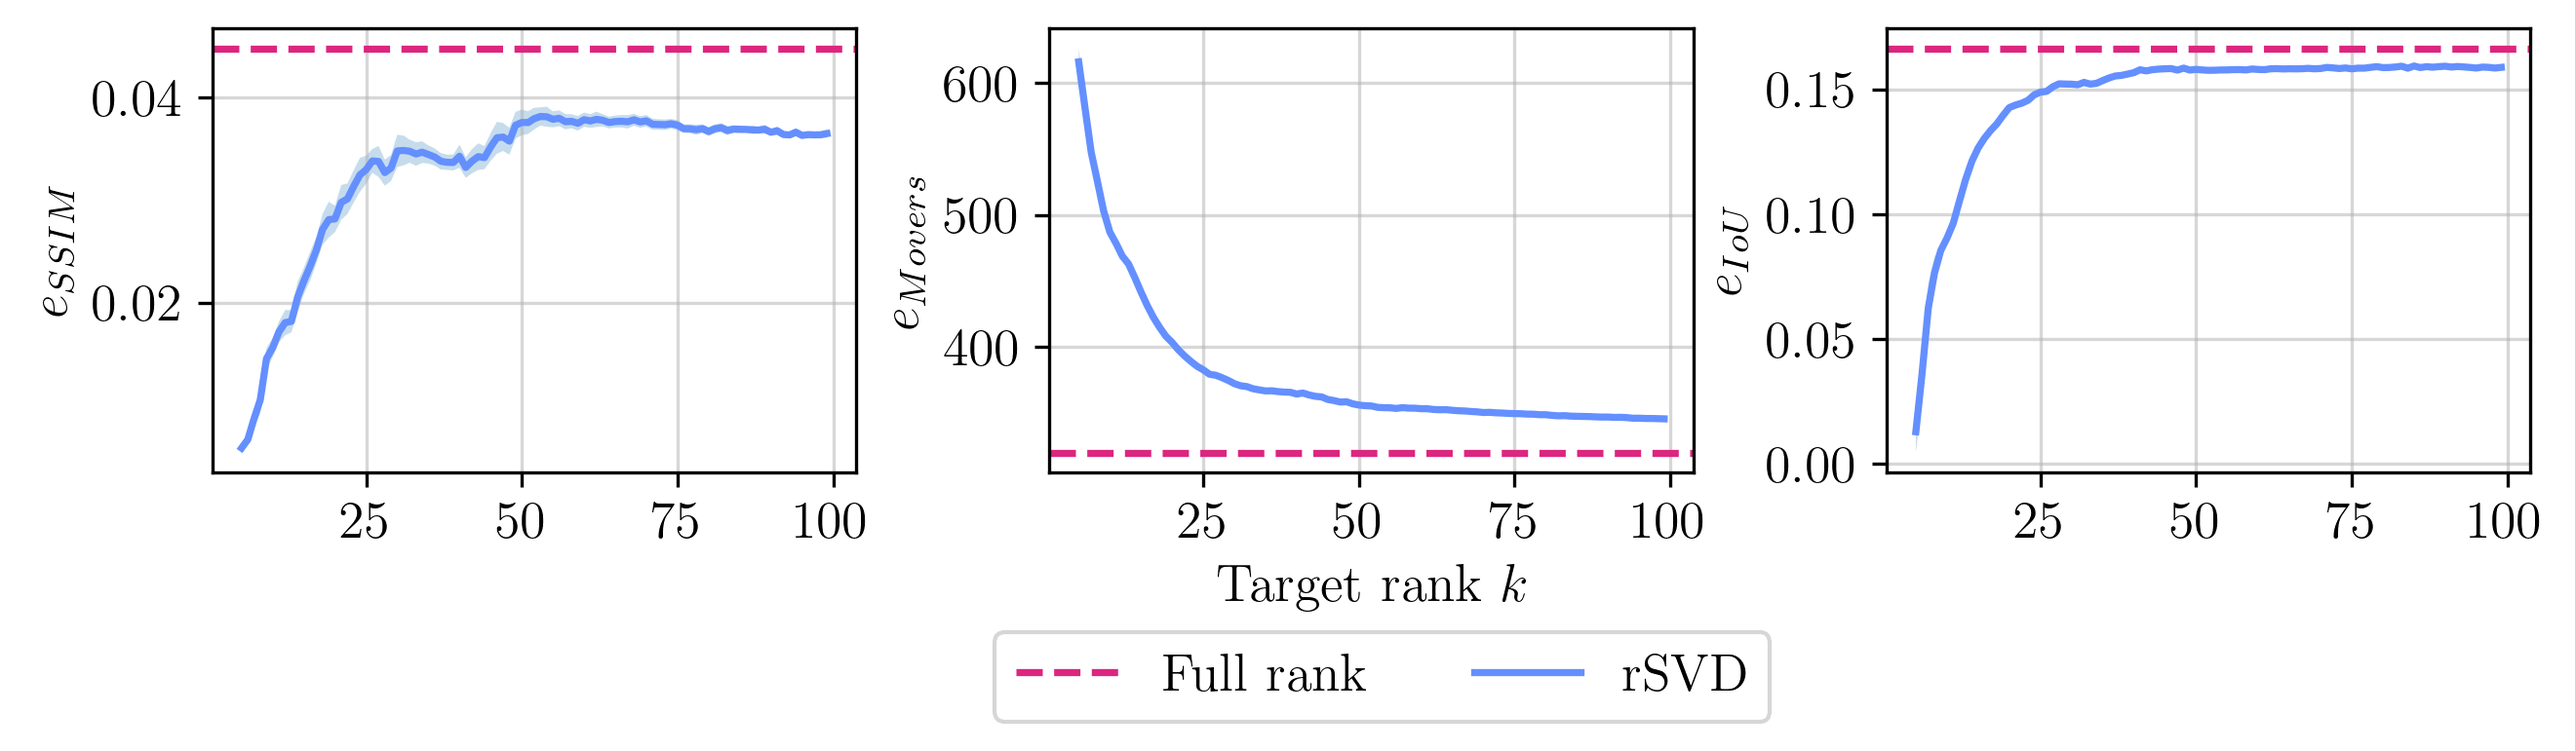
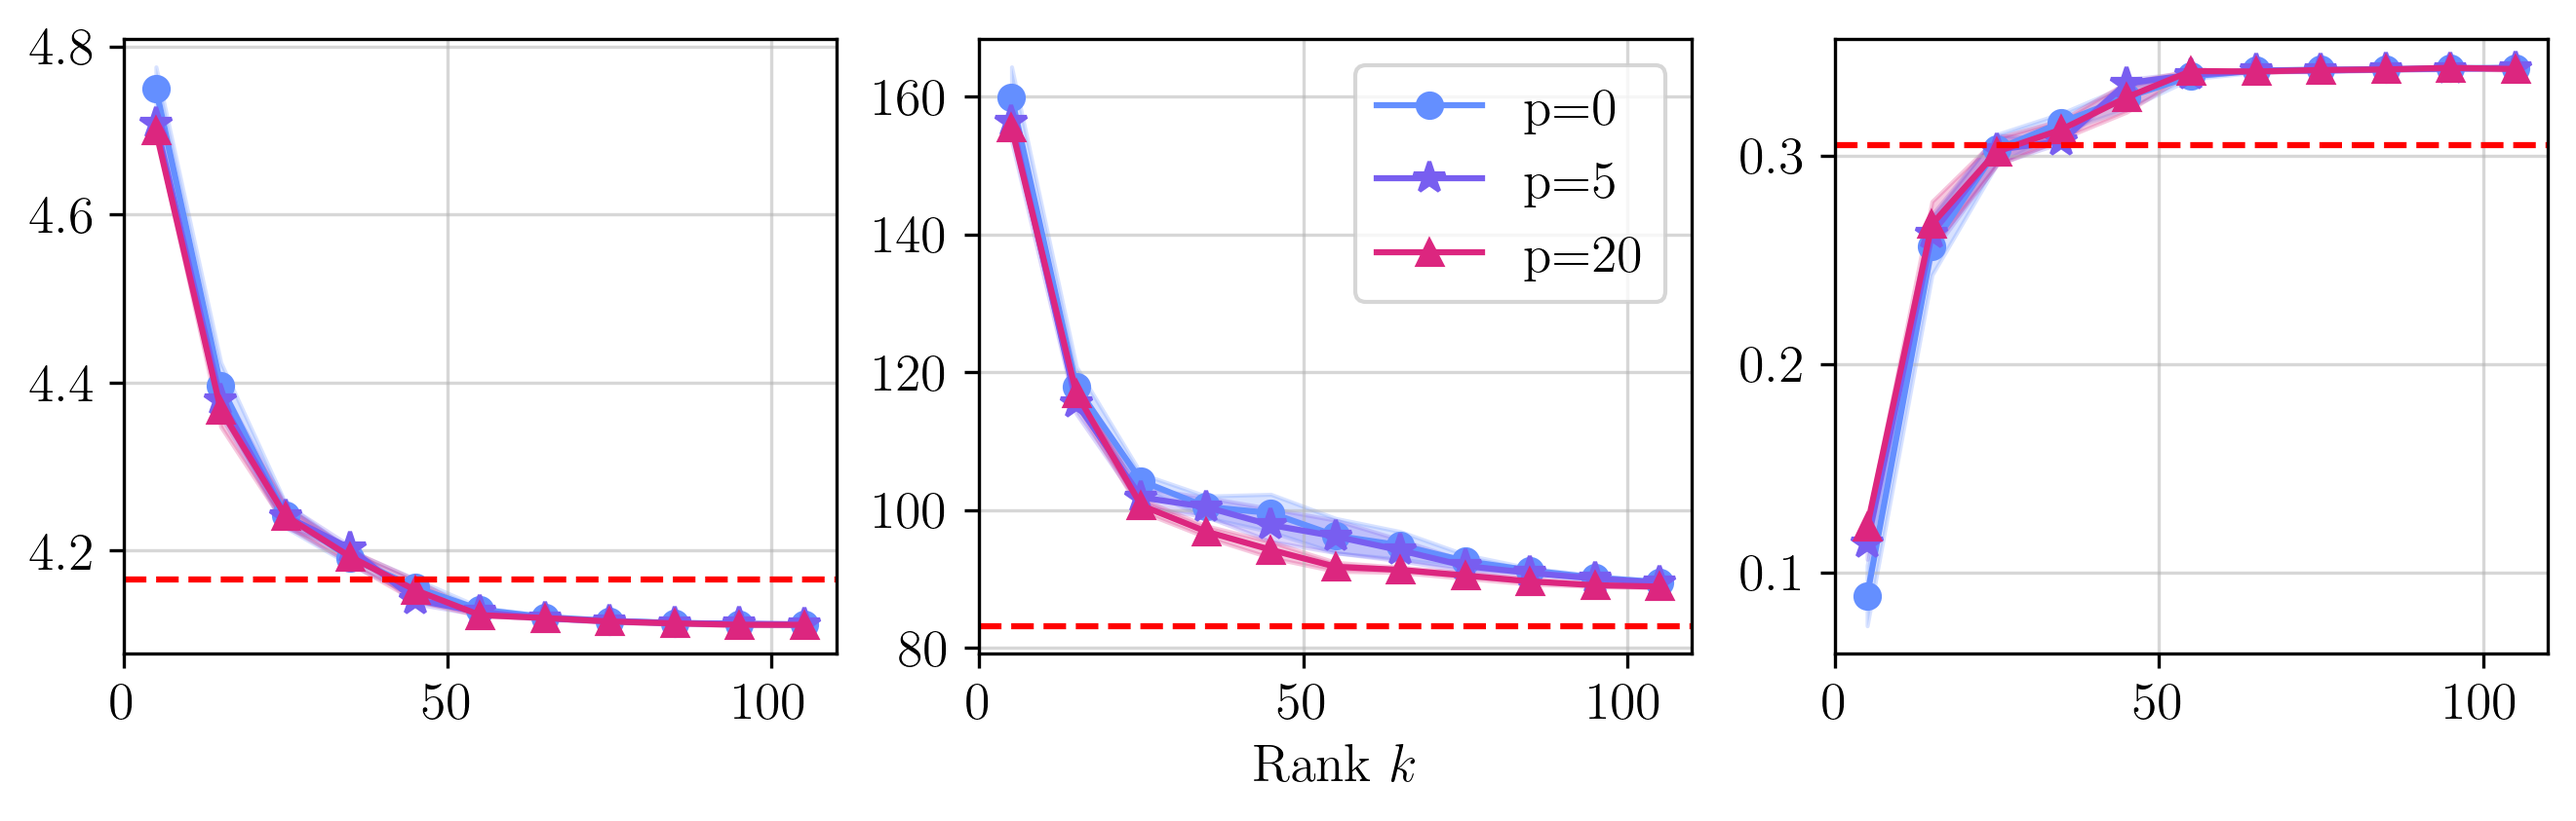
Multiple changes to multiple sections

diff --git a/thesis/sections/mathematical_background.tex b/thesis/sections/mathematical_background.tex
@@ -10,7 +10,7 @@ Let $\Omega \subset \mathbb R^2$ be a bounded domain with boundary $\partial \Om
 \nomenclature[B]{$c,\, c(x)$}{Reaction coefficient}
 
 Equation~\eqref{eq:pde} is a linear diffusion-reaction problem with Neumann boundary conditions, and defines a mapping
-\begin{equation}
+\begin{equation}\label{eq:S_cont}
     \mathcal S: L^2(\Omega) \rightarrow H^1(\Omega), \quad \mathcal{S} f = u.
 \end{equation}
 Here, $L^2(\Omega)$ is the space of square integrable functions and $H^1(\Omega) \subset L^2(\Omega)$ the first-order Sobolev space, see Appendix~\ref{appendix:function_spaces}
@@ -43,7 +43,7 @@ In order to solve such a problem computationally, the problem must be discretize
 \input{figures/triangulation.tex}
 Consider the PDE in Eq.~\eqref{eq:pde}. Multiplying the equation by a test function $v \in H^1(\Omega)$, integrating over $\Omega$, and applying Green's identity yields the weak formulation: find $u \in H^1(\Omega)$ such that
 \begin{equation}\label{eq:variational_formulation}
-    \int_{\Omega} (\sigma \nabla u \cdot \nabla v + k u v) \, dx = \int_{\Omega} f v \space \, dx,
+    \int_{\Omega} (\sigma \nabla u \cdot \nabla v + c u v) \, dx = \int_{\Omega} f v \space \, dx,
     \text{ for all } v \in H^1(\Omega).
 \end{equation}
 For details on the derivation, see Section~4 in Larson and Bengzon \cite{larsonFiniteElementMethod2013}.
@@ -66,7 +66,7 @@ The basis functions $\phi_i$ are piecewise linear hat functions associated with 
 The finite element approximation of \eqref{eq:variational_formulation} then reads: 
 find $u_h \in V_h$ such that
  \begin{equation}\label{eq:fem_formulation}
-    \int_{\Omega} (\sigma \nabla u_h \cdot \nabla v + k u_h v) \, dx = \int_{\Omega} f v \space \, dx,
+    \int_{\Omega} (\sigma \nabla u_h \cdot \nabla v + c u_h v) \, dx = \int_{\Omega} f v \space \, dx,
     \text{ for all } v \in V_h.
 \end{equation}
 
@@ -118,7 +118,7 @@ Let $V_h$ be the finite element space introduced in Eq.~\eqref{eq:fem_space} and
 where $M$ is the mass matrix. 
 
 This induces a discrete inner product on $\mathbb{R}^N$, with associated norm, defined by
-\begin{equation}
+\begin{equation}\label{eq:fem_norm}
     \langle \v x, \v y \rangle_M = \v x^T M \v y,
     \quad
     \| \v x \|_M = \sqrt{\v x^T M \v x}.
@@ -127,7 +127,7 @@ This induces a discrete inner product on $\mathbb{R}^N$, with associated norm, d
 Similarly, let $\v u, \v v \in \mathbb{R}^{N_b}$ 
 denote coefficient vectors corresponding to the traces 
 $u_h|_{\partial\Omega}$ and $v_h|_{\partial\Omega}$. The $L^2(\partial\Omega)$ inner product induces a discrete inner product and norm on $\mathbb{R}^{N_b}$, given by
-\begin{equation}
+\begin{equation}\label{eq:fem_norm_ds}
     \langle \mathbf{u}, \mathbf{v} \rangle_{M_{\partial}}
     = \mathbf{u}^T M_{\partial} \mathbf{v},
     \quad
@@ -139,6 +139,36 @@ where $M_\partial$ denotes the boundary mass matrix, see Appendix~\ref{appendix
 \nomenclature[E]{$M_\partial$}{Boundary mass matrix}%
 
 %In practice, this system is often **ill-posed** due to the large null space of $K$ and the accumulation of numerical errors in $A^{-1}$. As a result, naive solutions of Eq.~\eqref{eq:inverse_problem} are highly sensitive to noise in $\v y$, motivating the need for regularization techniques. In the following section, we discuss classical Tikhonov regularization and introduce the weighted approach that will be explored in this thesis.
+
+
+\subsubsection{The adjoint operator}
+Let $\mathcal{K}: L^2(\Omega) \to L^2(\partial\Omega)$ be the bounded linear operator defined in Equation~\eqref{eq:K}. The adjoint operator $\mathcal{K}^*: L^2(\partial\Omega) \to L^2(\Omega)$ is the bounded linear operator satisfying
+\begin{equation}\label{eq:K_star_cont}
+    \langle \mathcal K f,\, g \rangle_{L^2(\partial\Omega)} =
+    \langle f,\, \mathcal K^* g \rangle_{L^2(\Omega)},
+\end{equation}
+for all $f \in L^2(\Omega)$ and all $g \in L^2(\partial\Omega)$. Such an operator always exists for a bounded linear operator $\mathcal K$ mapping between two Hilbert spaces, see Section~3.9 in Kreyszig for a proof \cite{kreyszigIntroductoryFunctionalAnalysis1989}.
+
+Using the definition in Equation~\eqref{eq:K_star_cont}, we get the weak formulation of $K^*$ (the adjoint problem): find $w \in H^1(\Omega)$ such that
+\begin{equation}
+    \int_\Omega (\sigma^T \nabla w \cdot \nabla v + c w v) \, dx =
+    \int_{\partial\Omega} g v \, ds,
+    \text{ for all } v \in H^1(\Omega).
+\end{equation}
+The solution $w$ then satisfies $\mathcal K^* g = w$. For details, see 
+
+In the discrete case, under the inner products and norms defined in Equation~\eqref{eq:fem_norm} and \eqref{eq:fem_norm_ds}, the adjoint operator $K^* \in \mathbb{R}^{N \times N_b}$ of $K \in \mathbb{R}^{N_b \times N}$ satisfies
+\begin{equation}
+    (K \v x)^T M_\partial \v y = \v x^T M K^* \v y,
+\end{equation}
+for all $\v x \in \mathbb R^N$ and all $\v y \in \mathbb R^{N_b}$. 
+
+Inserting the explicit representation of $K$ given in Equation~\eqref{eq:discrete_K} yields the matrix representation of $K^*$,
+\begin{equation}
+    K^* = A^{-T} T^T M_\partial,
+\end{equation}
+where $A$ is the stiffness matrix, $T$ the discrete trace operator, and $M_\partial$ the boundary mass matrix.
+
 
 \subsection{Tikhonov regularization}
 

diff --git a/thesis/sections/appendix.tex b/thesis/sections/appendix.tex
@@ -45,7 +45,7 @@ Let $V_h \subset H^1(\Omega)$ be the finite element space defined in Eq.~\eqref{
 \begin{equation}
     A_{ij} = \int_\Omega 
     \left( \sigma \nabla \phi_j \cdot \nabla \phi_i 
-    + k \phi_j \phi_i \right) dx,
+    + c \phi_j \phi_i \right) dx,
     \quad
     M_{ij} = \int_\Omega \phi_j \phi_i \, dx.
 \end{equation}
@@ -73,20 +73,7 @@ for all $y \in \mathbb{R}^N$.
 \subsection{Performance metrics}
 Let $x \in \mathbb{R}^N$ denote the true source (it's coefficient vector) and $\hat x \in \mathbb{R}^N$ it's corresponding reconstruction.
 
-To evaluate reconstruction quality, we consider three performance metrics: centroid error, Earth mover’s distance (EMD), and intersection over union (IoU). These metrics emphasize the localization and spatial shape of the reconstructed source, rather than just the amplitude.
-
-
-\subsubsection{Centroid error}
-The centroid of $x$ represents it's center of mass/values. It is defined by
-\begin{equation}
-    c(x) = \frac{\sum_{i=1}^N p_i |x_i|}{\sum_{i=1}^N|x_i|},
-\end{equation}
-where $p_i$ denotes the spatial coordinate of $x_i$ (the location of the $x_i$ in its image/matrix representation). For more, see Section~16.10 in Protter and Charles \cite{protterCollegeCalculusAnalytic1970}.
-
-The centroid error is computed as
-\begin{equation}
-    e_{\text{centroid}} = \| c(x) - c(\hat x) \|.
-\end{equation}
+To evaluate reconstruction quality, we consider three performance metrics: Euclidean error, Earth mover’s distance (EMD), and the integrated (area under curve) intersection over union (AUC-IoU). These metrics emphasize the localization and spatial shape of the reconstructed source, rather than just the amplitude.
 
 
 \subsubsection{Earth mover’s distance}
@@ -97,23 +84,61 @@ The earth mover's distance measures the dissimilarity between two distributions,
 \end{equation}
 The EDM between them is
 \begin{equation}
-    e_{\text{EDM}} =
+    \operatorname{EDM} =
     \inf_{\gamma_{ij} \in \Pi}
     \gamma_{ij} \sum_{ij}^N d(p_i, p_j)
 \end{equation}
 where $\Pi$ is the set of all joint distributions with marginals $x_d$ and $\hat x_d$ \cite{rubnerMetricDistributionsApplications1998}.
 
 
-\subsubsection{Intersection over Union}
+\subsubsection{AUC-IoU}
 The IoU, known as the Jaccard index in statistics, measures the similarity between two sets. It is defined as the size of intersection divided by the size of the union \cite{raschkaPythonMachineLearning}.
 
-Let the sets $A$ and $B$ denote the binary masks of $x$ and $\hat x$, respectively (e.g. obtained via segmentation). The IoU is then given by
+We define the binary mask of $x$ at threshold $\tau \in (0, 1)$ as the set
 \begin{equation}
-    e_{IoU} = \frac{|A \cap B|}{|A \cup B|}.
+    S_{\tau}(x) = \{ i : x_i \ge \tau \operatorname{max}(x) \}.
+\end{equation}
+Then, the IoU of $x$ and $\hat x$ at threshold $\tau$ is then the IoU of their binary masks,
+\begin{equation}
+    \operatorname{IoU}(\tau) =
+    \frac{|S_\tau(x) \cap S_\tau(\hat x)|}{|S_\tau(x) \cup S_\tau(\hat x)|}.
 \end{equation}
 Here, $| \cdot |$ denotes the number of elements of a set (its cardinality).
 
+The AUC-IoU is then the integration of the $\operatorname{IoU}(\tau)$ curve,
+\begin{equation}
+    \operatorname{AUC-IoU} = \int_{0}^{1} \operatorname{IoU}(\tau) \, d\tau.
+\end{equation}
+This can be approximated using the Trapezoidal rule. The AUC-IoU lines in $[0, 1]$, with 1 being a perfect score.
 
-\subsection{Chan-Vese segmentation}
-\input{figures/cv_segmentation.tex}
 
+\subsection{Derivation of the Adjoint formulation}
+Consider the forward operator $\mathcal{K} = \mathcal{S} \circ \mathcal{T}$ given by Eq.~\eqref{eq:K}, and the variational formulation of $\mathcal{S}$ by Eq.~\eqref{eq:S_cont}. Define the bilinear form
+\begin{equation*}
+    a(u,\, v) =
+    \int_\Omega (\sigma \nabla u \cdot \nabla v + c u v) \, dx,
+\end{equation*}
+then, the variational formulation of $\mathcal{S}$ reads as follows: find $u \in H^1(\Omega)$ such that
+\begin{equation}\label{eq:bilinear_form}
+    a(u,\, v) = \int_\Omega f v \, dx.
+\end{equation}
+
+For some $g \in L^2(\partial\Omega)$, we seek $w = \mathcal{K}^* g$. By the definition of $K^*$,
+\begin{equation*}
+    \langle \mathcal{K} f,\, g \rangle_{L^2(\partial\Omega)} =
+    \langle f,\, \mathcal{K}^* g \rangle_{L^2(\Omega)}.
+\end{equation*}
+and since $\mathcal{K} f = u|_{\partial\Omega}$, we have that
+\begin{equation}\label{eq:adjoint_identity_1}
+    \langle \mathcal{K} f,\, g \rangle_{L^2(\partial\Omega)} =
+    \int_{\partial\Omega} u g \, ds.
+\end{equation}
+In Eq.~\eqref{eq:bilinear_form}, choose $v = w = K^* g$. We see that
+\begin{equation}\label{eq:adjoint_identity_2}
+    a(u, w) = \int_{\Omega} f w \, dx = \langle f,\, \mathcal{K}^* g \rangle_{L^2(\Omega)}.
+\end{equation}
+Insert Eq.~\eqref{eq:adjoint_identity_1} and \eqref{eq:adjoint_identity_2} into the definition of $\mathcal{K}^*$, and using the identity $a^*(v,\, u) = a(u,\, v)$ (by the definition of $a^*$, see \textcolor{red}{(ref)}),
+\begin{equation}\label{eq:adjoint_identity_3}
+    a^*(w,\, u) = \int_{\partial\Omega} g u \, ds.
+\end{equation}
+Since Equation~\eqref{eq:adjoint_identity_3} must hold for 

diff --git a/thesis/figures/rsvd_over_k.tex b/thesis/figures/rsvd_over_k.tex
@@ -1,0 +1,31 @@
+\begin{figure*}[htbp]
+\centering
+
+\begin{subfigure}{1.0\textwidth}
+    \centering
+    \includegraphics[width=\linewidth]{rsvd_over_k_I.png}
+    \caption{Test problem I.}
+    \label{fig:rsvd_over_k_I}
+\end{subfigure}
+
+\vspace{0.5cm}
+
+\begin{subfigure}{1.0\textwidth}
+    \centering
+    \includegraphics[width=\linewidth]{rsvd_over_k_II.png}
+    \caption{Test problem II.}
+    \label{fig:rsvd_over_k_II}
+\end{subfigure}
+
+\vspace{0.5cm}
+
+\begin{subfigure}{1.0\textwidth}
+    \centering
+    \includegraphics[width=\linewidth]{rsvd_over_k_III.png}
+    \caption{Test problem III.}
+    \label{fig:rsvd_over_k_III}
+\end{subfigure}
+
+\caption{Error comparison of rank-$k$ weighted Tikhonov solutions for different oversampling parameters (solid lines) versus the full-rank weighted Tikhonov solution (dashed line). Error metrics used are Euclidean (left column), EMD (middle column), and AUC-IoU (right column).}
+\label{fig:rsvd_over_k}
+\end{figure*}

diff --git a/thesis/figures/test_problems_selected.tex b/thesis/figures/test_problems_selected.tex
@@ -1,0 +1,31 @@
+\begin{figure*}[htbp]
+\centering
+
+\begin{subfigure}{1.0\textwidth}
+    \centering
+    \includegraphics[width=\linewidth]{test_problem_I.png}
+    \caption{Test problem I.}
+    \label{fig:test_problem_I}
+\end{subfigure}
+
+\vspace{0.5cm}
+
+\begin{subfigure}{1.0\textwidth}
+    \centering
+    \includegraphics[width=\linewidth]{test_problem_II.png}
+    \caption{Test problem II.}
+    \label{fig:test_problem_II}
+\end{subfigure}
+
+\vspace{0.5cm}
+
+\begin{subfigure}{1.0\textwidth}
+    \centering
+    \includegraphics[width=\linewidth]{test_problem_III.png}
+    \caption{Test problem III.}
+    \label{fig:test_problem_III}
+\end{subfigure}
+
+\caption{The full rank weighted Tikhonov solutions (left), a rank-$10$ rSVD solution (middle), and a rank-$30$ rSVD solution (right). An oversampling parameter of $p=5$ was used for all rSVD solutions.}
+\label{fig:test_problems_selected}
+\end{figure*}

diff --git a/thesis/sections/results.tex b/thesis/sections/results.tex
@@ -5,7 +5,10 @@ Figure~\ref{fig:problem_illustration} shows the three meshes and sources used fo
 
 
 \subsection{Target rank effect on error}
-\input{figures/rsvd_over_k_I.tex}
+\input{figures/test_problems_selected.tex}
+
+\input{figures/rsvd_over_k.tex}
+
 
 
 \subsection{Target rank and mesh resolution}
